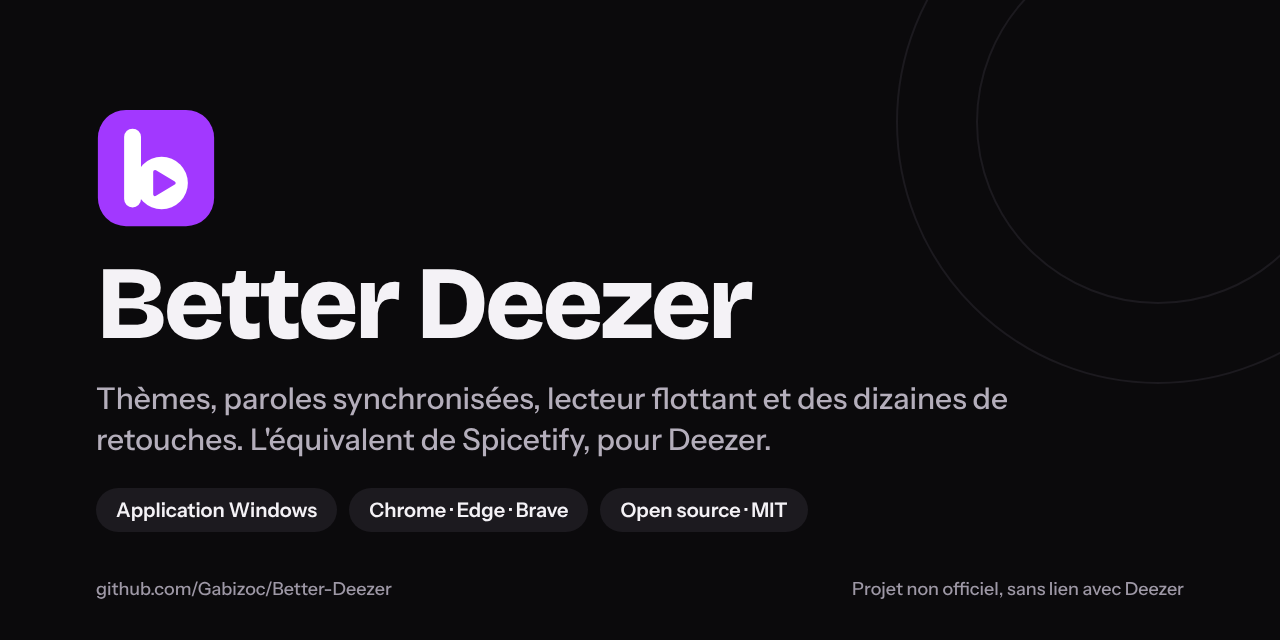
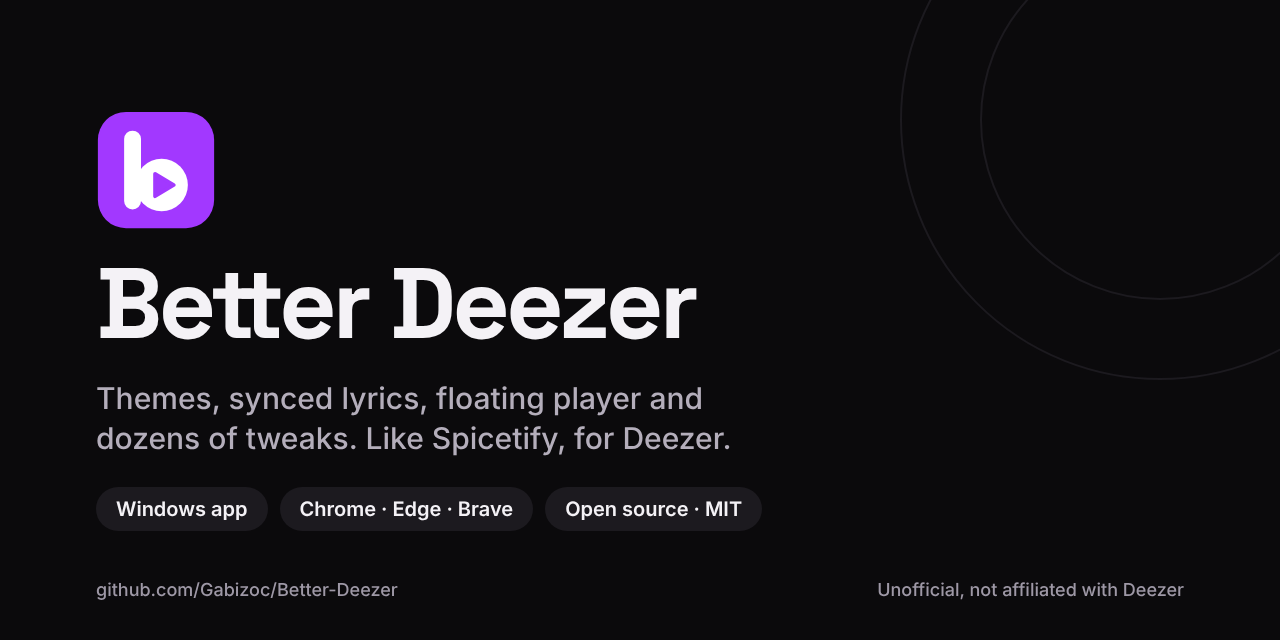
Localize the store screenshots and fix two display bugs they showed
- Store screenshots and promo tiles in English and French, taken on the real
  deezer.com in each language with the current typefaces; GitHub social
  preview in English
- Now playing: join several artists with ", " ("GIMS,Mauvais djo")
- Settings > Themes: translate the built-in theme descriptions, also after a
  language change (smoke check added)
- Regenerate themes/index.json (community theme font)

diff --git a/src/features/themes.js b/src/features/themes.js
@@ -5,6 +5,22 @@
  * request to themes/community, see docs/themes.md).
  * The engine lives in core/30-themes.js (BD.skins, BD.themeSchema).
  */
+// Built-in themes keep an English description in their JSON. Shown translated while
+// unchanged; an edited copy or a community theme shows its own text as it is.
+// A plain function on BD: the settings panel re-renders cards from other objects.
+BD.themeDescriptions = {
+  "The default: warm graphite, one violet accent. Light and dark.": "Par défaut : graphite chaud, un seul accent violet. Clair et sombre.",
+  "Embers: warm browns and a glowing orange.": "Braises : bruns chauds et un orange incandescent.",
+  "Black and white, maximum contrast.": "Noir et blanc, contraste maximal.",
+  "Moss greens, calm and natural.": "Verts mousse, calmes et naturels.",
+  "Deep navy with an electric blue accent.": "Bleu marine profond et accent bleu électrique.",
+  "Soft plum and a candy pink accent.": "Prune douce et accent rose bonbon."
+};
+BD.describeTheme = (text) => {
+  const fr = BD.themeDescriptions[text];
+  return fr ? BD.t(fr, text) : text;
+};
+
 BD.feature({
   id: "themes",
   setup() {
@@ -67,7 +83,7 @@ BD.themesUI = {
         { class: "bd-theme-meta" },
         BD.h("strong", {}, theme.name, active ? BD.h("em", { class: "bd-badge-on" }, BD.t("Actif", "Active")) : null),
         BD.h("span", {}, [theme.author, badge].filter(Boolean).join(" · ")),
-        theme.description ? BD.h("p", {}, theme.description) : null
+        theme.description ? BD.h("p", {}, BD.describeTheme(theme.description)) : null
       ),
       BD.h("div", { class: "bd-theme-actions" }, ...actions.filter(Boolean))
     );

diff --git a/src/features/nowplaying.js b/src/features/nowplaying.js
@@ -77,7 +77,11 @@ BD.feature({
     if (!dock) return null;
     const title = BD.q('[data-testid="item_title"]', dock)?.textContent.trim();
     if (!title) return null;
-    const artist = BD.q('[data-testid="item_subtitle"]', dock)?.textContent.replace(/\s+/g, " ").trim() || "";
+    // Several artists are separate links with a bare "," between them (the gap is CSS):
+    // join the links, or at least put a space after each comma.
+    const sub = BD.q('[data-testid="item_subtitle"]', dock);
+    const names = sub ? [...sub.querySelectorAll("a")].map((a) => a.textContent.trim()).filter(Boolean) : [];
+    const artist = names.length > 1 ? names.join(", ") : (sub?.textContent || "").replace(/\s+/g, " ").replace(/\s*,\s*/g, ", ").trim();
     const img = BD.q('[data-testid="item_cover"] img', dock);
     const cover = img?.currentSrc || img?.src || "";
     const input = BD.anchors.progressInput();

diff --git a/store/README.md b/store/README.md
@@ -36,12 +36,16 @@ La fiche existe en 8 langues, selon la [méthode de Chrome](https://developer.ch
 | --- | --- |
 | Catégorie | **Lifestyle › Entertainment** |
 | Icône | `extension/icons/icon-128.png` (source vectorielle : `store/icon.svg`) |
-| Petite tuile promo (440×280) | `store/promo-small-440x280.png` |
-| Grande tuile promo (1400×560) | `store/promo-marquee-1400x560.png` |
+| Petite tuile promo (440×280) | `store/promo/<langue>/small-440x280.png` |
+| Grande tuile promo (1400×560) | `store/promo/<langue>/marquee-1400x560.png` |
 | Site | https://github.com/Gabizoc/Better-Deezer |
 | Assistance | https://github.com/Gabizoc/Better-Deezer/issues |
 
-**Captures** (1280×800, PNG sans transparence), dans `store/screenshots/` et dans cet ordre : vue En écoute avec paroles synchronisées, page artiste, album *Ceinture noire*, album *Subliminal* en clair, Réglages Better Deezer. Prises sur le vrai deezer.com, déconnecté, skin injecté (GIMS en exemple). En réserve dans `store/screenshots/extra/` : En écoute en clair, une playlist. Les mêmes captures servent pour toutes les langues.
+**Captures** (1280×800, PNG sans transparence), une série par langue dans `store/screenshots/<langue>/`, à déposer dans cet ordre : vue En écoute avec paroles synchronisées, page artiste, album *Ceinture noire*, album *Subliminal* en clair, Réglages Better Deezer. Prises sur le vrai deezer.com (`/en/` ou `/fr/`), déconnecté, skin injecté et réglé dans la langue (GIMS en exemple). En réserve dans `extra/` : En écoute en clair.
+
+**Quelles images pour quelle langue** : dans Dashboard › **Store listing**, les captures et les tuiles se changent par langue, comme la description. `en` sert pour l'anglais et pour toutes les langues sans série dédiée (es, de, it, pt_BR, pt_PT, nl) ; `fr` pour le français.
+
+**Cover GitHub** (1280×640, en anglais comme le README) : `store/social-preview.png`, à envoyer dans Settings › General › Social preview.
 
 ## Onglet Privacy practices
 

diff --git a/CHANGELOG.md b/CHANGELOG.md
@@ -4,6 +4,13 @@ Le format suit [Keep a Changelog](https://keepachangelog.com/fr/1.1.0/) et les n
 
 ## [Non publié]
 
+### Corrigé
+- Vue En écoute : plusieurs artistes s'affichaient collés après la virgule (« GIMS,Mauvais djo »).
+- Réglages › Thèmes : les descriptions des thèmes intégrés s'affichent dans la langue choisie, au lieu de rester en anglais.
+
+### Modifié
+- Captures et tuiles du Chrome Web Store refaites en anglais et en français, avec les polices actuelles ; cover GitHub en anglais.
+
 ## [1.2.0] — 2026-11-25
 
 ### Ajouté
